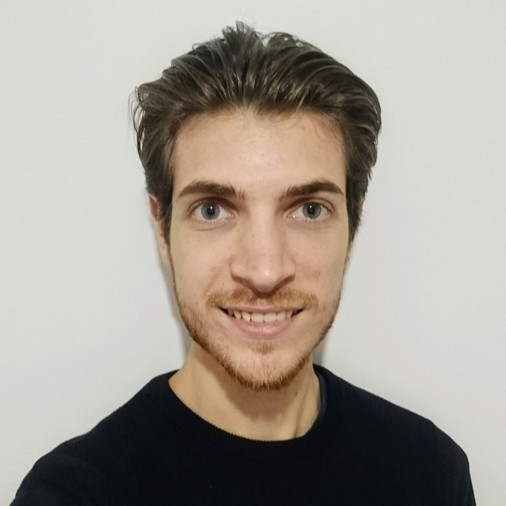
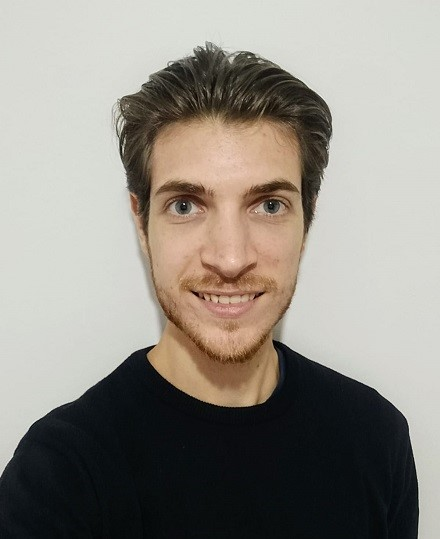
update pictures size

Changed region(s): [[0.0, 0.0296, 0.975, 1.0]]

diff --git a/docs/index.html b/docs/index.html
@@ -316,26 +316,26 @@ Importante
 <h2 class="unnumbered anchored" data-anchor-id="sobre-nosotros">Sobre nosotros</h2>
 <div class="quarto-layout-panel">
 <div class="quarto-layout-row quarto-layout-valign-bottom">
-<div class="quarto-layout-cell" style="flex-basis: 33.3%;justify-content: center;">
+<div class="quarto-layout-cell" style="flex-basis: 36.1%;justify-content: center;">
 <div class="quarto-figure quarto-figure-center">
 <figure class="figure">
-<p><img src="fig/becho.jpg" class="img-fluid figure-img" data-widht="300px"></p>
+<p><img src="fig/becho.jpg" class="img-fluid figure-img" style="width:4.8cm"></p>
 <p></p><figcaption class="figure-caption">Juan Edwards</figcaption><p></p>
 </figure>
 </div>
 </div>
-<div class="quarto-layout-cell" style="flex-basis: 33.3%;justify-content: center;">
+<div class="quarto-layout-cell" style="flex-basis: 33.1%;justify-content: center;">
 <div class="quarto-figure quarto-figure-center">
 <figure class="figure">
-<p><img src="fig/choper.jpeg" class="img-fluid figure-img" data-widht="300px"></p>
+<p><img src="fig/choper.jpeg" class="img-fluid figure-img" style="width:4.4cm"></p>
 <p></p><figcaption class="figure-caption">Juan Paredes</figcaption><p></p>
 </figure>
 </div>
 </div>
-<div class="quarto-layout-cell" style="flex-basis: 33.3%;justify-content: center;">
+<div class="quarto-layout-cell" style="flex-basis: 30.8%;justify-content: center;">
 <div class="quarto-figure quarto-figure-center">
 <figure class="figure">
-<p><img src="fig/bruno.jpg" class="img-fluid figure-img" width="300"></p>
+<p><img src="fig/bruno.jpg" class="img-fluid figure-img" style="width:4.1cm"></p>
 <p></p><figcaption class="figure-caption">Bruno Pugliese</figcaption><p></p>
 </figure>
 </div>
